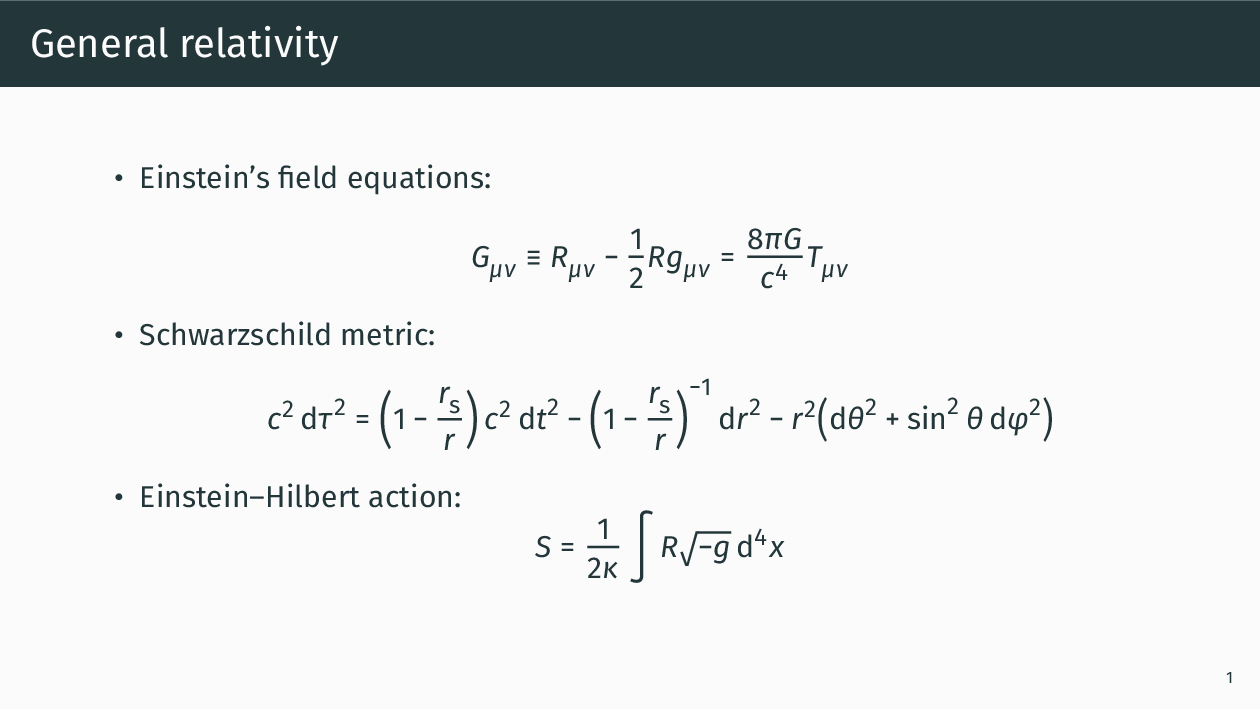
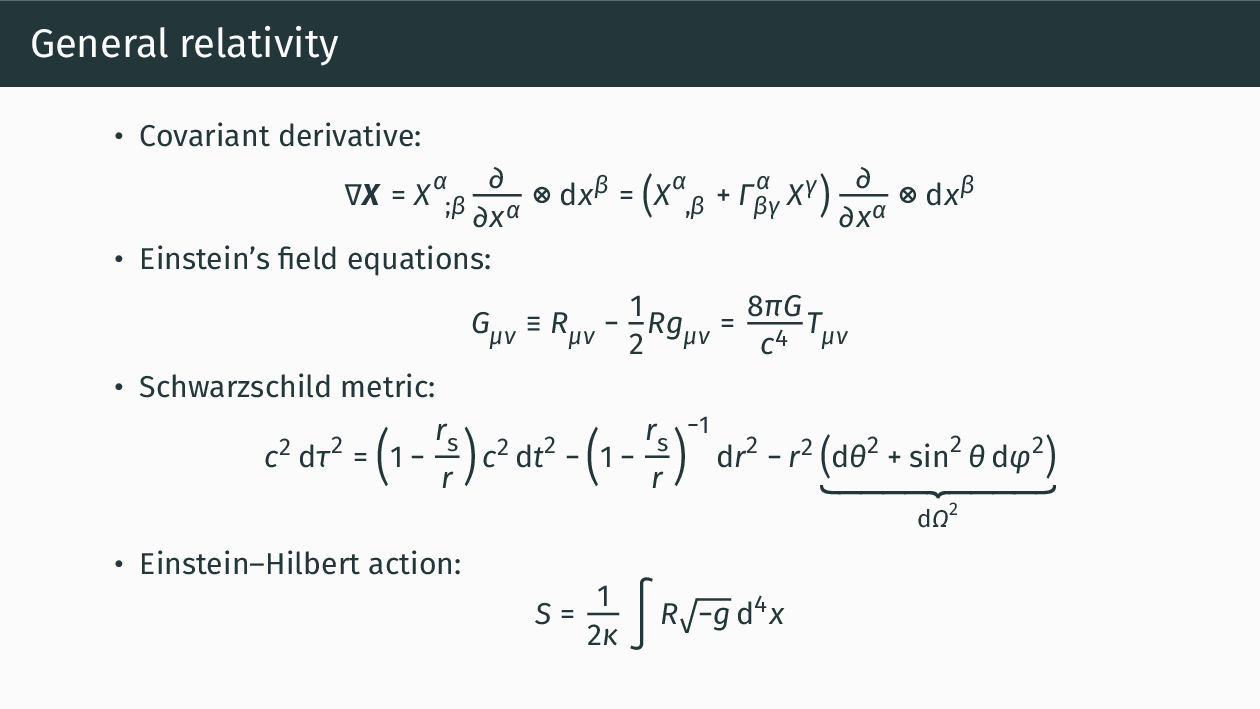
docs: update showcase

diff --git a/docs/slide.tex b/docs/slide.tex
@@ -7,14 +7,21 @@
 \useinnertheme{metropolis}
 \usecolortheme{metropolis}
 \usefonttheme{professionalfonts}
+\setbeamertemplate{footline}{\vspace*{0.5cm}}
 
 \setsansfont{Fira Sans}
 \setmathfont{fira-math.otf}[Path=../assets/]
 
 \begin{document}
 
-\begin{frame}{General relativity}
+\begin{frame}[noframenumbering]{General relativity}
 \begin{itemize}
+  \item Covariant derivative:
+    \[
+      \nabla \symbf{X} = \tensor{X}{^\alpha_{;\beta}} \pdv{x^\alpha} \otimes \dd{x^\beta}
+                       = \qty(\tensor{X}{^\alpha_{,\beta}} + \Gamma^{\alpha}_{\beta\gamma} \, X^\gamma) \,
+                         \pdv{x^\alpha} \otimes \dd{x^\beta}
+    \]
   \item Einstein's field equations:
     \[ G_{\mu\nu} \equiv R_{\mu\nu} - \frac{1}{2} R g_{\mu\nu} = \frac{8\pi G}{c^4} T_{\mu\nu} \]
   %\item Conservation of energy and momentum:
@@ -23,7 +30,7 @@
     \[
       c^2 \dd{\tau}^2 = \qty(1-\frac{r_{\mathrm{s}}}{r}) \, c^2 \dd{t}^2
                       - \qty(1-\frac{r_{\mathrm{s}}}{r})^{-1} \dd{r}^2
-                      - r^2 \qty(\dd{\theta}^2 + \sin^2 \theta \dd{\varphi}^2)
+                      - r^2 \underbrace{\qty(\dd{\theta}^2 + \sin^2 \theta \dd{\varphi}^2)}_{\dd{\Omega}^2}
     \]
   \item Einstein--Hilbert action:
     \[ S = \frac{1}{2\kappa} \int R \sqrt{-g} \dd[4]{x} \]
